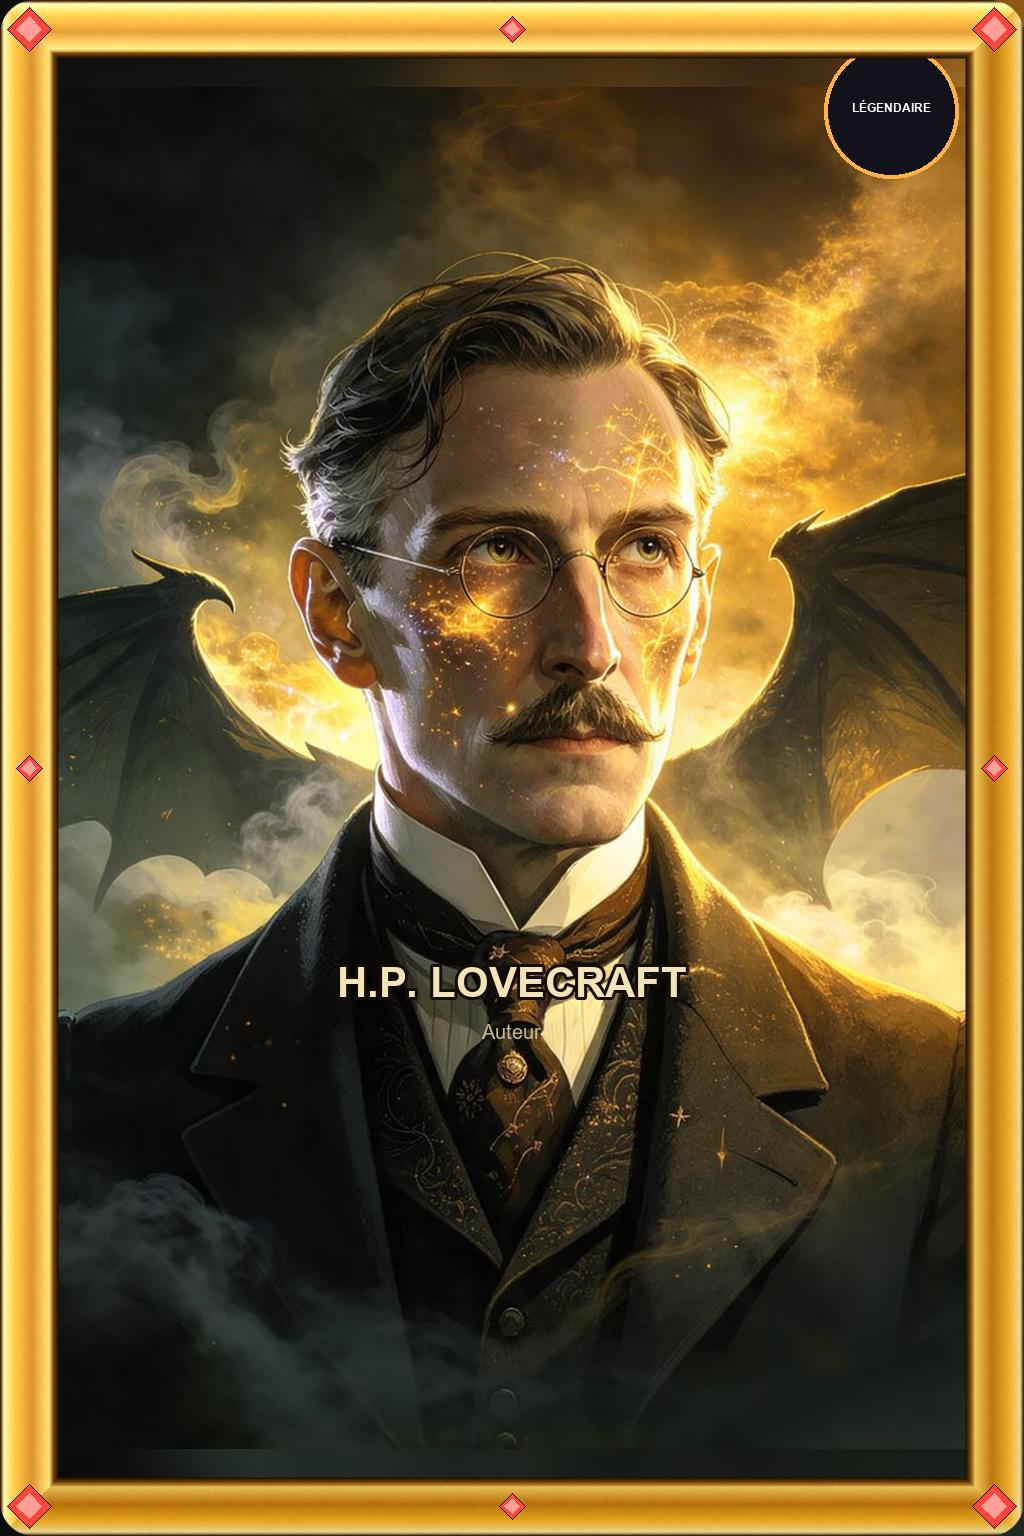
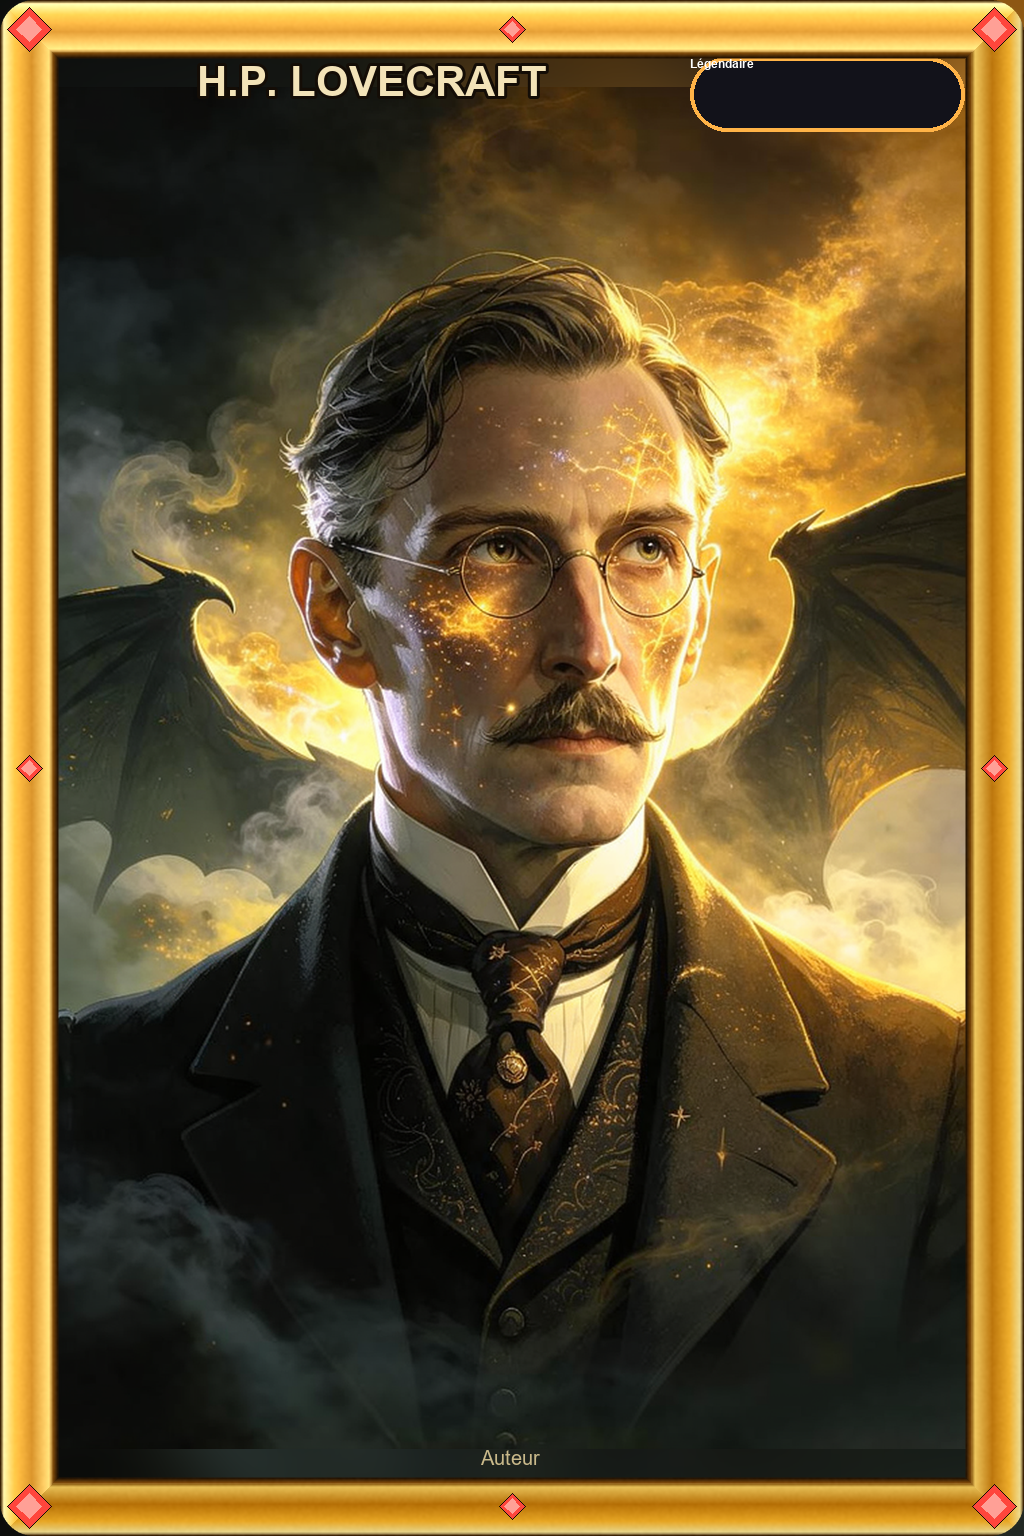
Collections TCG (page publique) mises à jour

diff --git a/tcg_collections.html b/tcg_collections.html
@@ -148,7 +148,7 @@ footer .tentacle-rule{font-size:18px;letter-spacing:14px;margin-bottom:14px;opac
 
 <script>
 const DATA = {
-  "generated_at": "23/10/2026 à 05:47",
+  "generated_at": "23/10/2026 à 06:03",
   "rarities": [
     {
       "id": "commune",
@@ -486,7 +486,7 @@ const DATA = {
       "name": "Grimoire Interdit",
       "cards": {
         "cthulhu": {
-          "name": "cthulhu",
+          "name": "Cthulhu",
           "rarity": "legendaire",
           "image": null
         },
